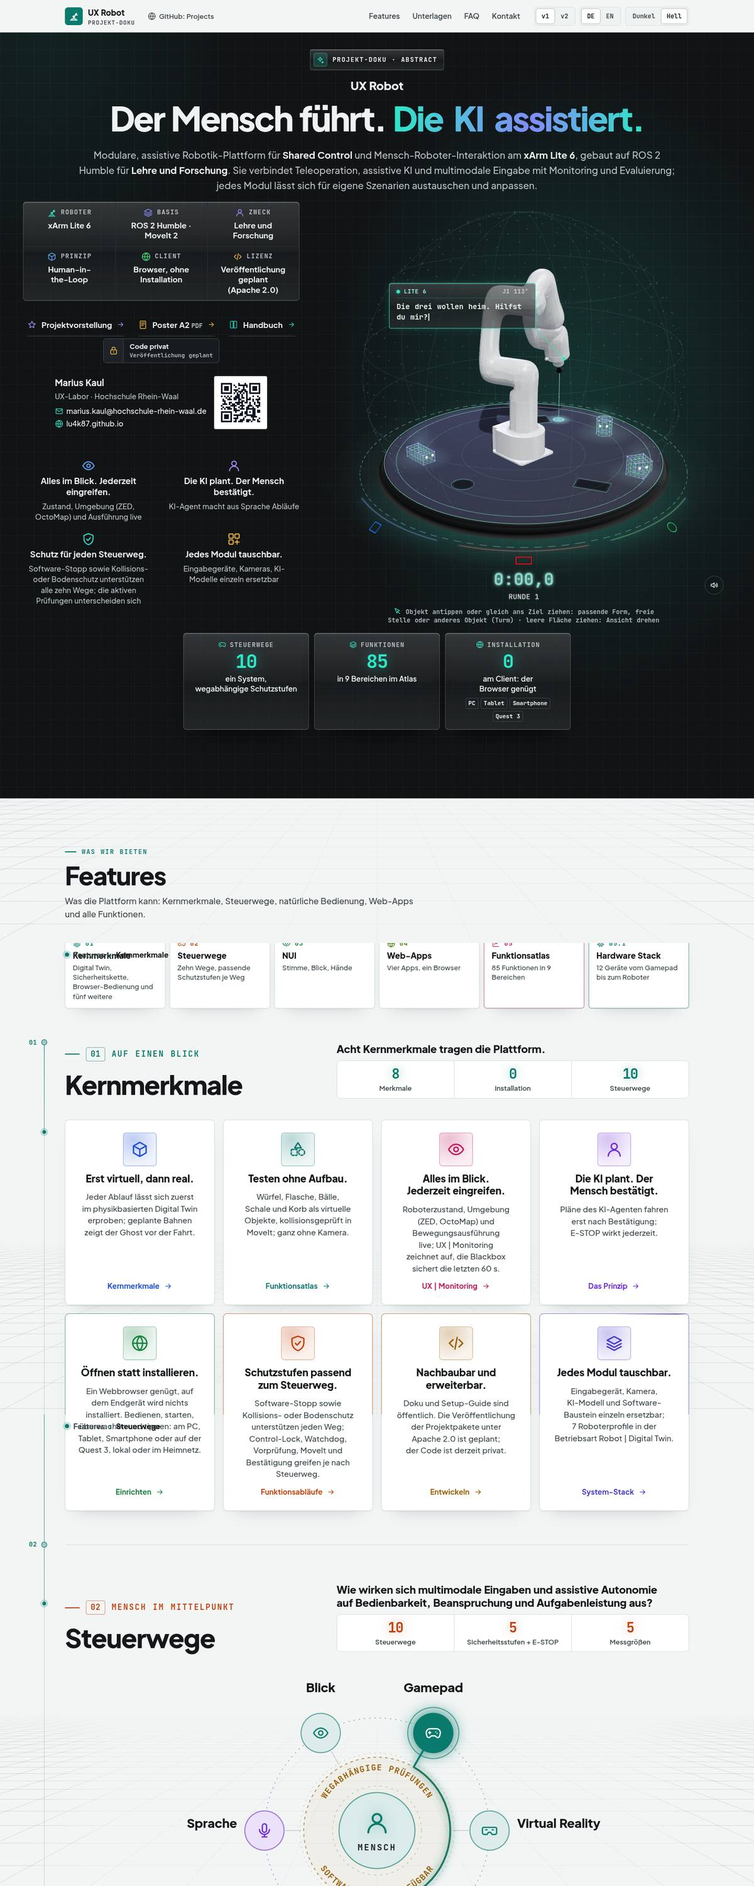
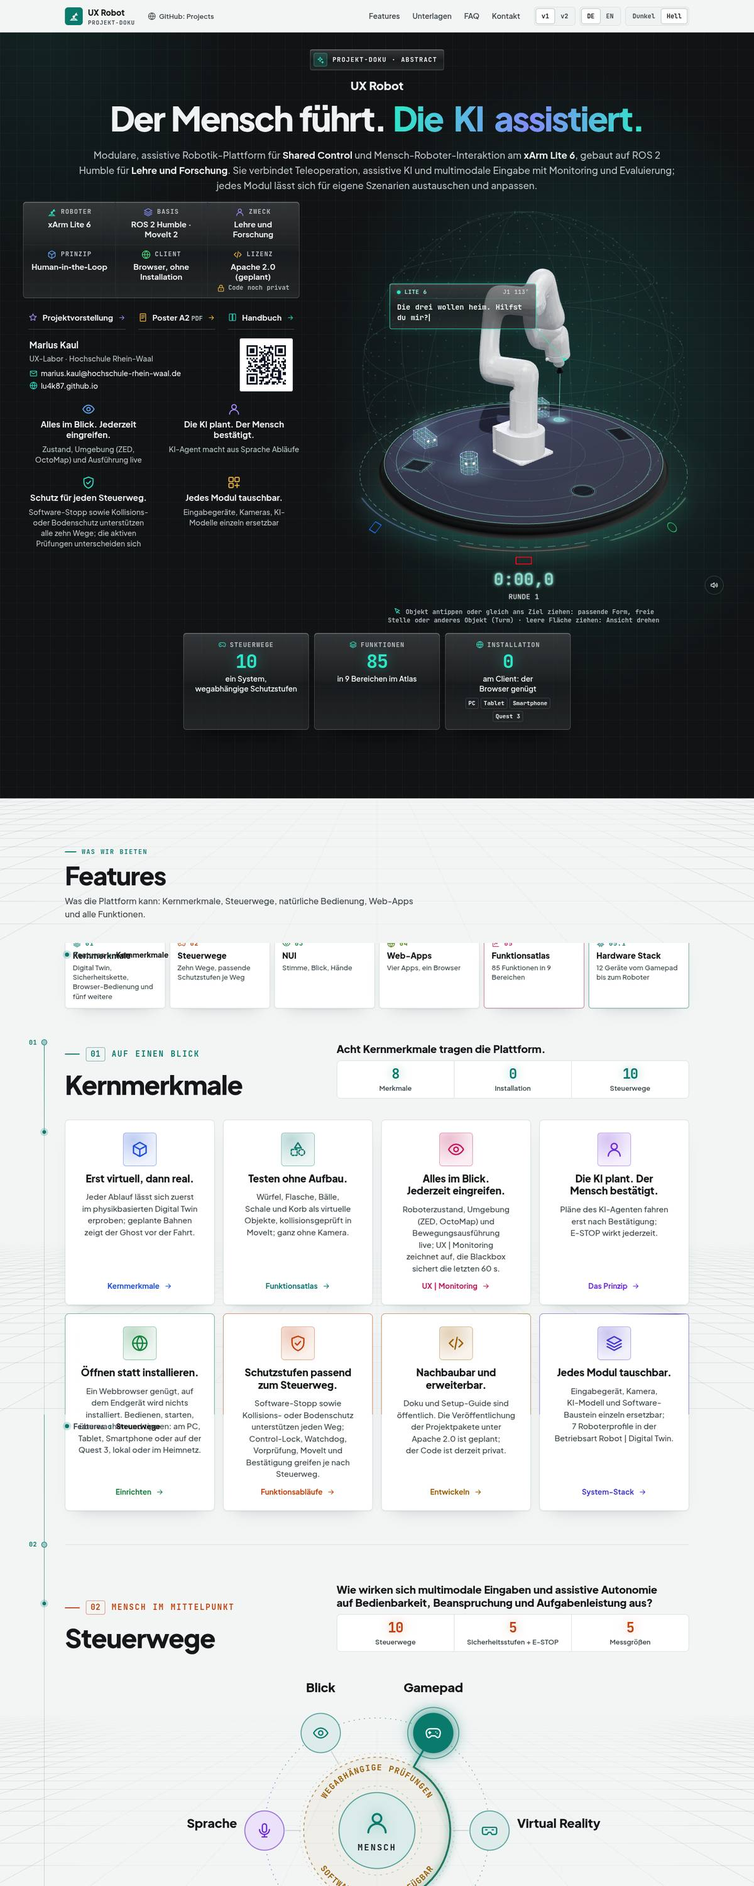
update project pages (dev_ws c979a1f2)

diff --git a/index.html b/index.html
@@ -868,7 +868,7 @@ footer p { margin: 0; }
     <p class="kicker"><b>01</b><span>UX Lab</span></p>
     <h2 id="h-lab" data-en="UX Lab · Rhine-Waal University of Applied Sciences">UX Lab · Hochschule Rhein-Waal</h2>
     <p class="intro" data-en="Robotics platform and research belong together: the study runs on UX Robot.">Robotik-Plattform und Forschung gehören zusammen: Die Studie läuft auf UX Robot.</p>
-    <div class="grid rows"><article class="card row" id="p-ux_robot" data-reveal><div class="info"><div class="plate"><a class="qr-code" href="web_ux_robot/project_docs.html" aria-label="QR-Code lu4k87.github.io/web_ux_robot" data-en-aria="QR code lu4k87.github.io/web_ux_robot"><svg viewBox="0 0 29 29" class="segno"><path class="qrline" stroke="#000" d="M0 0.5h7m1 0h3m1 0h1m1 0h1m1 0h5m1 0h7m-29 1h1m5 0h1m1 0h2m6 0h2m2 0h1m1 0h1m5 0h1m-29 1h1m1 0h3m1 0h1m2 0h1m1 0h1m1 0h1m1 0h1m2 0h1m1 0h1m1 0h1m1 0h3m1 0h1m-29 1h1m1 0h3m1 0h1m1 0h1m1 0h1m6 0h1m1 0h1m2 0h1m1 0h3m1 0h1m-29 1h1m1 0h3m1 0h1m2 0h1m4 0h3m2 0h2m1 0h1m1 0h3m1 0h1m-29 1h1m5 0h1m2 0h3m1 0h1m2 0h4m2 0h1m5 0h1m-29 1h7m1 0h1m1 0h1m1 0h1m1 0h1m1 0h1m1 0h1m1 0h1m1 0h7m-21 1h1m5 0h2m1 0h4m-21 1h1m1 0h2m1 0h3m1 0h3m1 0h1m2 0h2m1 0h1m2 0h1m2 0h1m1 0h2m-29 1h4m3 0h3m1 0h1m1 0h1m2 0h5m1 0h1m1 0h1m3 0h1m-27 1h7m2 0h1m1 0h1m2 0h1m1 0h1m3 0h1m1 0h1m1 0h2m-28 1h2m1 0h2m2 0h3m2 0h1m2 0h1m2 0h3m1 0h1m1 0h1m3 0h1m-29 1h3m3 0h1m1 0h1m1 0h3m1 0h1m2 0h1m2 0h2m3 0h2m-27 1h4m3 0h3m4 0h6m1 0h2m3 0h3m-29 1h1m5 0h1m2 0h1m2 0h2m2 0h4m1 0h2m3 0h3m-29 1h4m3 0h2m1 0h1m1 0h1m1 0h1m7 0h3m2 0h1m-28 1h2m4 0h1m2 0h3m2 0h1m1 0h1m1 0h3m3 0h2m1 0h1m-26 1h3m2 0h1m1 0h1m1 0h2m1 0h2m4 0h1m4 0h3m-28 1h1m1 0h7m4 0h4m5 0h3m1 0h1m-25 1h4m1 0h3m1 0h8m3 0h1m3 0h1m-26 1h3m2 0h1m2 0h2m2 0h3m1 0h10m-19 1h1m1 0h1m1 0h1m2 0h2m1 0h3m3 0h5m-29 1h7m1 0h2m4 0h1m4 0h2m1 0h1m1 0h2m1 0h1m-28 1h1m5 0h1m1 0h1m1 0h2m1 0h2m1 0h1m3 0h1m3 0h2m1 0h2m-29 1h1m1 0h3m1 0h1m4 0h1m4 0h1m3 0h5m1 0h1m-27 1h1m1 0h3m1 0h1m1 0h1m1 0h1m4 0h2m1 0h4m2 0h2m2 0h1m-29 1h1m1 0h3m1 0h1m1 0h5m1 0h1m2 0h4m2 0h1m2 0h1m1 0h1m-29 1h1m5 0h1m2 0h3m3 0h2m3 0h1m3 0h2m1 0h1m-28 1h7m1 0h3m3 0h1m1 0h1m1 0h5m1 0h1m2 0h1"/></svg></a><div class="qr-meta"><span class="host">lu4k87.github.io</span><a class="path" href="web_ux_robot/project_docs.html">/web_<wbr>ux_<wbr>robot</a><span class="scan"><svg class="i" aria-hidden="true"><use href="#i-qr"/></svg><span data-en="Scan to open">Zum Scannen</span></span><button class="qr-more" type="button" aria-expanded="false"><svg class="i" aria-hidden="true"><use href="#i-qr"/></svg><span class="qr-show" data-en="Show QR code">QR-Code zeigen</span><span class="qr-hide" data-en="Hide QR code">QR-Code ausblenden</span></button></div></div><div class="body"><p class="tag" data-en="Robotics · ROS 2 · xArm Lite 6">Robotik · ROS 2 · xArm Lite 6</p><h3>UX Robot</h3><p class="desc" data-en="Assistive robotics platform for the xArm Lite 6 – The human leads. The AI assists.">Assistive Robotik-Plattform für den xArm Lite 6 – Der Mensch führt. Die KI assistiert.</p></div><div class="acts"><div class="btns"><a class="btn main" href="web_ux_robot/project_docs.html"><span data-en="Read the docs">Doku lesen</span><svg class="i go" aria-hidden="true"><use href="#i-go"/></svg></a><a class="btn" href="web_ux_robot/project_docs.html"><span data-en="Open page">Seite öffnen</span><svg class="i go" aria-hidden="true"><use href="#i-go"/></svg></a></div><span class="repo-status" role="img" aria-label="Code privat" data-en-aria="Code private"><svg class="i" aria-hidden="true"><use href="#i-lock"/></svg><span data-en="Code private">Code privat</span></span></div></div><div class="shot"><a class="win" href="web_ux_robot/project_docs.html" aria-label="Seite öffnen: UX Robot · lu4k87.github.io/web_ux_robot" data-en-aria="Open page: UX Robot · lu4k87.github.io/web_ux_robot"><span class="win-bar"><i></i><i></i><i></i><span class="win-url">lu4k87.github.io/<wbr>web_<wbr>ux_<wbr>robot</span></span><span class="win-view tall" style="--r: 0.225; --d: 10.3s"><span class="win-pane"><img src="web_shots/ux_robot.jpg?v=d7049339" width="1200" height="3000" alt="" loading="lazy" decoding="async"></span><i class="win-pos" aria-hidden="true"><b></b></i></span></a></div></article><article class="card row" id="p-ux_robot_research" data-reveal><div class="info"><div class="plate"><a class="qr-code" href="web_ux_robot/present_research.html" aria-label="QR-Code lu4k87.github.io/web_ux_robot_research" data-en-aria="QR code lu4k87.github.io/web_ux_robot_research"><svg viewBox="0 0 33 33" class="segno"><path class="qrline" stroke="#000" d="M0 0.5h7m1 0h2m2 0h2m1 0h1m2 0h2m1 0h4m1 0h7m-33 1h1m5 0h1m2 0h4m4 0h2m2 0h2m1 0h1m1 0h1m5 0h1m-33 1h1m1 0h3m1 0h1m2 0h1m3 0h2m4 0h1m1 0h1m2 0h1m1 0h1m1 0h3m1 0h1m-33 1h1m1 0h3m1 0h1m3 0h4m1 0h3m3 0h3m2 0h1m1 0h3m1 0h1m-33 1h1m1 0h3m1 0h1m1 0h5m4 0h7m2 0h1m1 0h3m1 0h1m-33 1h1m5 0h1m1 0h1m3 0h4m1 0h1m4 0h1m3 0h1m5 0h1m-33 1h7m1 0h1m1 0h1m1 0h1m1 0h1m1 0h1m1 0h1m1 0h1m1 0h1m1 0h1m1 0h7m-23 1h1m2 0h1m1 0h2m1 0h2m1 0h3m-23 1h7m1 0h3m1 0h2m2 0h1m5 0h1m3 0h2m3 0h1m-33 1h2m1 0h2m3 0h5m3 0h5m2 0h2m1 0h2m1 0h4m-33 1h2m4 0h2m3 0h1m1 0h3m2 0h1m1 0h1m1 0h1m3 0h1m1 0h1m1 0h2m-31 1h2m4 0h2m1 0h1m1 0h1m1 0h3m1 0h1m1 0h5m3 0h5m-29 1h1m1 0h3m7 0h1m1 0h1m1 0h1m1 0h4m2 0h2m1 0h2m-25 1h1m2 0h2m3 0h1m1 0h3m1 0h2m1 0h1m3 0h4m-29 1h1m1 0h2m1 0h1m1 0h4m1 0h3m1 0h1m1 0h1m1 0h3m2 0h1m1 0h1m-31 1h1m2 0h1m3 0h2m1 0h2m1 0h1m1 0h1m4 0h1m1 0h4m2 0h2m-28 1h1m2 0h1m2 0h4m1 0h1m1 0h2m2 0h1m1 0h1m1 0h2m1 0h2m3 0h1m-33 1h1m6 0h1m1 0h2m1 0h2m3 0h1m1 0h3m1 0h1m2 0h2m1 0h2m1 0h1m-33 1h2m1 0h1m1 0h7m2 0h5m5 0h5m1 0h1m-29 1h1m1 0h1m2 0h1m3 0h1m3 0h4m2 0h1m3 0h8m-33 1h1m3 0h3m1 0h4m1 0h2m3 0h2m2 0h1m1 0h2m2 0h2m1 0h2m-33 1h1m2 0h3m1 0h3m4 0h3m1 0h4m1 0h1m1 0h2m2 0h2m1 0h1m-33 1h1m1 0h1m3 0h6m3 0h3m2 0h1m1 0h1m2 0h2m1 0h4m-32 1h1m2 0h3m1 0h2m4 0h2m3 0h1m1 0h4m4 0h3m1 0h1m-33 1h1m2 0h1m1 0h2m1 0h1m1 0h2m2 0h2m1 0h2m3 0h7m2 0h2m-25 1h6m4 0h4m1 0h2m3 0h1m1 0h1m1 0h1m-33 1h7m1 0h2m2 0h2m4 0h1m2 0h4m1 0h1m1 0h1m1 0h2m-32 1h1m5 0h1m1 0h3m1 0h1m2 0h1m2 0h1m1 0h3m1 0h1m3 0h4m-32 1h1m1 0h3m1 0h1m1 0h2m1 0h2m1 0h4m4 0h1m1 0h6m2 0h1m-33 1h1m1 0h3m1 0h1m1 0h2m1 0h1m2 0h7m1 0h4m2 0h1m1 0h1m1 0h1m-33 1h1m1 0h3m1 0h1m1 0h1m2 0h2m2 0h4m1 0h2m1 0h5m-28 1h1m5 0h1m1 0h2m1 0h3m1 0h5m1 0h2m5 0h3m-31 1h7m2 0h2m1 0h1m1 0h2m1 0h2m1 0h1m1 0h3m1 0h2m1 0h3"/></svg></a><div class="qr-meta"><span class="host">lu4k87.github.io</span><a class="path" href="web_ux_robot/present_research.html">/web_<wbr>ux_<wbr>robot_<wbr>research</a><span class="scan"><svg class="i" aria-hidden="true"><use href="#i-qr"/></svg><span data-en="Scan to open">Zum Scannen</span></span><button class="qr-more" type="button" aria-expanded="false"><svg class="i" aria-hidden="true"><use href="#i-qr"/></svg><span class="qr-show" data-en="Show QR code">QR-Code zeigen</span><span class="qr-hide" data-en="Hide QR code">QR-Code ausblenden</span></button></div></div><div class="body"><p class="tag" data-en="Research · human factors">Forschung · Human Factors</p><h3>Look, Speak, Confirm</h3><p class="desc" data-en="Study of gaze, speech and confirmation as complementary interaction for robot manipulation.">Studie zu Blick, Sprache und Bestätigung als sich ergänzende Bedienung für Roboter-Manipulation.</p></div><div class="acts"><div class="btns"><a class="btn main" href="web_ux_robot/present_research.html"><span data-en="Read the study">Studie lesen</span><svg class="i go" aria-hidden="true"><use href="#i-go"/></svg></a><a class="btn" href="web_ux_robot/present_research.html"><span data-en="Open page">Seite öffnen</span><svg class="i go" aria-hidden="true"><use href="#i-go"/></svg></a></div><span class="repo-status" role="img" aria-label="Code privat" data-en-aria="Code private"><svg class="i" aria-hidden="true"><use href="#i-lock"/></svg><span data-en="Code private">Code privat</span></span></div></div><div class="shot"><a class="win" href="web_ux_robot/present_research.html" aria-label="Seite öffnen: Look, Speak, Confirm · lu4k87.github.io/web_ux_robot_research" data-en-aria="Open page: Look, Speak, Confirm · lu4k87.github.io/web_ux_robot_research"><span class="win-bar"><i></i><i></i><i></i><span class="win-url">lu4k87.github.io/<wbr>web_<wbr>ux_<wbr>robot_<wbr>research</span></span><span class="win-view tall" style="--r: 0.225; --d: 10.3s"><span class="win-pane"><img src="web_shots/ux_robot_research.jpg?v=d7049339" width="1200" height="3000" alt="" loading="lazy" decoding="async"></span><i class="win-pos" aria-hidden="true"><b></b></i></span></a></div></article></div>
+    <div class="grid rows"><article class="card row" id="p-ux_robot" data-reveal><div class="info"><div class="plate"><a class="qr-code" href="web_ux_robot/project_docs.html" aria-label="QR-Code lu4k87.github.io/web_ux_robot" data-en-aria="QR code lu4k87.github.io/web_ux_robot"><svg viewBox="0 0 29 29" class="segno"><path class="qrline" stroke="#000" d="M0 0.5h7m1 0h3m1 0h1m1 0h1m1 0h5m1 0h7m-29 1h1m5 0h1m1 0h2m6 0h2m2 0h1m1 0h1m5 0h1m-29 1h1m1 0h3m1 0h1m2 0h1m1 0h1m1 0h1m1 0h1m2 0h1m1 0h1m1 0h1m1 0h3m1 0h1m-29 1h1m1 0h3m1 0h1m1 0h1m1 0h1m6 0h1m1 0h1m2 0h1m1 0h3m1 0h1m-29 1h1m1 0h3m1 0h1m2 0h1m4 0h3m2 0h2m1 0h1m1 0h3m1 0h1m-29 1h1m5 0h1m2 0h3m1 0h1m2 0h4m2 0h1m5 0h1m-29 1h7m1 0h1m1 0h1m1 0h1m1 0h1m1 0h1m1 0h1m1 0h1m1 0h7m-21 1h1m5 0h2m1 0h4m-21 1h1m1 0h2m1 0h3m1 0h3m1 0h1m2 0h2m1 0h1m2 0h1m2 0h1m1 0h2m-29 1h4m3 0h3m1 0h1m1 0h1m2 0h5m1 0h1m1 0h1m3 0h1m-27 1h7m2 0h1m1 0h1m2 0h1m1 0h1m3 0h1m1 0h1m1 0h2m-28 1h2m1 0h2m2 0h3m2 0h1m2 0h1m2 0h3m1 0h1m1 0h1m3 0h1m-29 1h3m3 0h1m1 0h1m1 0h3m1 0h1m2 0h1m2 0h2m3 0h2m-27 1h4m3 0h3m4 0h6m1 0h2m3 0h3m-29 1h1m5 0h1m2 0h1m2 0h2m2 0h4m1 0h2m3 0h3m-29 1h4m3 0h2m1 0h1m1 0h1m1 0h1m7 0h3m2 0h1m-28 1h2m4 0h1m2 0h3m2 0h1m1 0h1m1 0h3m3 0h2m1 0h1m-26 1h3m2 0h1m1 0h1m1 0h2m1 0h2m4 0h1m4 0h3m-28 1h1m1 0h7m4 0h4m5 0h3m1 0h1m-25 1h4m1 0h3m1 0h8m3 0h1m3 0h1m-26 1h3m2 0h1m2 0h2m2 0h3m1 0h10m-19 1h1m1 0h1m1 0h1m2 0h2m1 0h3m3 0h5m-29 1h7m1 0h2m4 0h1m4 0h2m1 0h1m1 0h2m1 0h1m-28 1h1m5 0h1m1 0h1m1 0h2m1 0h2m1 0h1m3 0h1m3 0h2m1 0h2m-29 1h1m1 0h3m1 0h1m4 0h1m4 0h1m3 0h5m1 0h1m-27 1h1m1 0h3m1 0h1m1 0h1m1 0h1m4 0h2m1 0h4m2 0h2m2 0h1m-29 1h1m1 0h3m1 0h1m1 0h5m1 0h1m2 0h4m2 0h1m2 0h1m1 0h1m-29 1h1m5 0h1m2 0h3m3 0h2m3 0h1m3 0h2m1 0h1m-28 1h7m1 0h3m3 0h1m1 0h1m1 0h5m1 0h1m2 0h1"/></svg></a><div class="qr-meta"><span class="host">lu4k87.github.io</span><a class="path" href="web_ux_robot/project_docs.html">/web_<wbr>ux_<wbr>robot</a><span class="scan"><svg class="i" aria-hidden="true"><use href="#i-qr"/></svg><span data-en="Scan to open">Zum Scannen</span></span><button class="qr-more" type="button" aria-expanded="false"><svg class="i" aria-hidden="true"><use href="#i-qr"/></svg><span class="qr-show" data-en="Show QR code">QR-Code zeigen</span><span class="qr-hide" data-en="Hide QR code">QR-Code ausblenden</span></button></div></div><div class="body"><p class="tag" data-en="Robotics · ROS 2 · xArm Lite 6">Robotik · ROS 2 · xArm Lite 6</p><h3>UX Robot</h3><p class="desc" data-en="Assistive robotics platform for the xArm Lite 6 – The human leads. The AI assists.">Assistive Robotik-Plattform für den xArm Lite 6 – Der Mensch führt. Die KI assistiert.</p></div><div class="acts"><div class="btns"><a class="btn main" href="web_ux_robot/project_docs.html"><span data-en="Read the docs">Doku lesen</span><svg class="i go" aria-hidden="true"><use href="#i-go"/></svg></a><a class="btn" href="web_ux_robot/project_docs.html"><span data-en="Open page">Seite öffnen</span><svg class="i go" aria-hidden="true"><use href="#i-go"/></svg></a></div><span class="repo-status" role="img" aria-label="Code privat" data-en-aria="Code private"><svg class="i" aria-hidden="true"><use href="#i-lock"/></svg><span data-en="Code private">Code privat</span></span></div></div><div class="shot"><a class="win" href="web_ux_robot/project_docs.html" aria-label="Seite öffnen: UX Robot · lu4k87.github.io/web_ux_robot" data-en-aria="Open page: UX Robot · lu4k87.github.io/web_ux_robot"><span class="win-bar"><i></i><i></i><i></i><span class="win-url">lu4k87.github.io/<wbr>web_<wbr>ux_<wbr>robot</span></span><span class="win-view tall" style="--r: 0.225; --d: 10.3s"><span class="win-pane"><img src="web_shots/ux_robot.jpg?v=050289eb" width="1200" height="3000" alt="" loading="lazy" decoding="async"></span><i class="win-pos" aria-hidden="true"><b></b></i></span></a></div></article><article class="card row" id="p-ux_robot_research" data-reveal><div class="info"><div class="plate"><a class="qr-code" href="web_ux_robot/present_research.html" aria-label="QR-Code lu4k87.github.io/web_ux_robot_research" data-en-aria="QR code lu4k87.github.io/web_ux_robot_research"><svg viewBox="0 0 33 33" class="segno"><path class="qrline" stroke="#000" d="M0 0.5h7m1 0h2m2 0h2m1 0h1m2 0h2m1 0h4m1 0h7m-33 1h1m5 0h1m2 0h4m4 0h2m2 0h2m1 0h1m1 0h1m5 0h1m-33 1h1m1 0h3m1 0h1m2 0h1m3 0h2m4 0h1m1 0h1m2 0h1m1 0h1m1 0h3m1 0h1m-33 1h1m1 0h3m1 0h1m3 0h4m1 0h3m3 0h3m2 0h1m1 0h3m1 0h1m-33 1h1m1 0h3m1 0h1m1 0h5m4 0h7m2 0h1m1 0h3m1 0h1m-33 1h1m5 0h1m1 0h1m3 0h4m1 0h1m4 0h1m3 0h1m5 0h1m-33 1h7m1 0h1m1 0h1m1 0h1m1 0h1m1 0h1m1 0h1m1 0h1m1 0h1m1 0h1m1 0h7m-23 1h1m2 0h1m1 0h2m1 0h2m1 0h3m-23 1h7m1 0h3m1 0h2m2 0h1m5 0h1m3 0h2m3 0h1m-33 1h2m1 0h2m3 0h5m3 0h5m2 0h2m1 0h2m1 0h4m-33 1h2m4 0h2m3 0h1m1 0h3m2 0h1m1 0h1m1 0h1m3 0h1m1 0h1m1 0h2m-31 1h2m4 0h2m1 0h1m1 0h1m1 0h3m1 0h1m1 0h5m3 0h5m-29 1h1m1 0h3m7 0h1m1 0h1m1 0h1m1 0h4m2 0h2m1 0h2m-25 1h1m2 0h2m3 0h1m1 0h3m1 0h2m1 0h1m3 0h4m-29 1h1m1 0h2m1 0h1m1 0h4m1 0h3m1 0h1m1 0h1m1 0h3m2 0h1m1 0h1m-31 1h1m2 0h1m3 0h2m1 0h2m1 0h1m1 0h1m4 0h1m1 0h4m2 0h2m-28 1h1m2 0h1m2 0h4m1 0h1m1 0h2m2 0h1m1 0h1m1 0h2m1 0h2m3 0h1m-33 1h1m6 0h1m1 0h2m1 0h2m3 0h1m1 0h3m1 0h1m2 0h2m1 0h2m1 0h1m-33 1h2m1 0h1m1 0h7m2 0h5m5 0h5m1 0h1m-29 1h1m1 0h1m2 0h1m3 0h1m3 0h4m2 0h1m3 0h8m-33 1h1m3 0h3m1 0h4m1 0h2m3 0h2m2 0h1m1 0h2m2 0h2m1 0h2m-33 1h1m2 0h3m1 0h3m4 0h3m1 0h4m1 0h1m1 0h2m2 0h2m1 0h1m-33 1h1m1 0h1m3 0h6m3 0h3m2 0h1m1 0h1m2 0h2m1 0h4m-32 1h1m2 0h3m1 0h2m4 0h2m3 0h1m1 0h4m4 0h3m1 0h1m-33 1h1m2 0h1m1 0h2m1 0h1m1 0h2m2 0h2m1 0h2m3 0h7m2 0h2m-25 1h6m4 0h4m1 0h2m3 0h1m1 0h1m1 0h1m-33 1h7m1 0h2m2 0h2m4 0h1m2 0h4m1 0h1m1 0h1m1 0h2m-32 1h1m5 0h1m1 0h3m1 0h1m2 0h1m2 0h1m1 0h3m1 0h1m3 0h4m-32 1h1m1 0h3m1 0h1m1 0h2m1 0h2m1 0h4m4 0h1m1 0h6m2 0h1m-33 1h1m1 0h3m1 0h1m1 0h2m1 0h1m2 0h7m1 0h4m2 0h1m1 0h1m1 0h1m-33 1h1m1 0h3m1 0h1m1 0h1m2 0h2m2 0h4m1 0h2m1 0h5m-28 1h1m5 0h1m1 0h2m1 0h3m1 0h5m1 0h2m5 0h3m-31 1h7m2 0h2m1 0h1m1 0h2m1 0h2m1 0h1m1 0h3m1 0h2m1 0h3"/></svg></a><div class="qr-meta"><span class="host">lu4k87.github.io</span><a class="path" href="web_ux_robot/present_research.html">/web_<wbr>ux_<wbr>robot_<wbr>research</a><span class="scan"><svg class="i" aria-hidden="true"><use href="#i-qr"/></svg><span data-en="Scan to open">Zum Scannen</span></span><button class="qr-more" type="button" aria-expanded="false"><svg class="i" aria-hidden="true"><use href="#i-qr"/></svg><span class="qr-show" data-en="Show QR code">QR-Code zeigen</span><span class="qr-hide" data-en="Hide QR code">QR-Code ausblenden</span></button></div></div><div class="body"><p class="tag" data-en="Research · human factors">Forschung · Human Factors</p><h3>Look, Speak, Confirm</h3><p class="desc" data-en="Study of gaze, speech and confirmation as complementary interaction for robot manipulation.">Studie zu Blick, Sprache und Bestätigung als sich ergänzende Bedienung für Roboter-Manipulation.</p></div><div class="acts"><div class="btns"><a class="btn main" href="web_ux_robot/present_research.html"><span data-en="Read the study">Studie lesen</span><svg class="i go" aria-hidden="true"><use href="#i-go"/></svg></a><a class="btn" href="web_ux_robot/present_research.html"><span data-en="Open page">Seite öffnen</span><svg class="i go" aria-hidden="true"><use href="#i-go"/></svg></a></div><span class="repo-status" role="img" aria-label="Code privat" data-en-aria="Code private"><svg class="i" aria-hidden="true"><use href="#i-lock"/></svg><span data-en="Code private">Code privat</span></span></div></div><div class="shot"><a class="win" href="web_ux_robot/present_research.html" aria-label="Seite öffnen: Look, Speak, Confirm · lu4k87.github.io/web_ux_robot_research" data-en-aria="Open page: Look, Speak, Confirm · lu4k87.github.io/web_ux_robot_research"><span class="win-bar"><i></i><i></i><i></i><span class="win-url">lu4k87.github.io/<wbr>web_<wbr>ux_<wbr>robot_<wbr>research</span></span><span class="win-view tall" style="--r: 0.225; --d: 10.3s"><span class="win-pane"><img src="web_shots/ux_robot_research.jpg?v=050289eb" width="1200" height="3000" alt="" loading="lazy" decoding="async"></span><i class="win-pos" aria-hidden="true"><b></b></i></span></a></div></article></div>
   </section>
 
   <section aria-labelledby="h-projects">

diff --git a/web_ux_robot/project_docs.html b/web_ux_robot/project_docs.html
@@ -156,14 +156,16 @@ a.kpi:hover { background: var(--surface-2); }
 /* Hero: Steckbrief 3×2, Linkzeile ins Projekt, Autorzeile mit kleinem QR (Wunsch User 05.10.2026, Vorschau B); Icons in Bereichsfarbe (--hue) */
 .facts { display: grid; grid-template-columns: repeat(3, minmax(0, 1fr)); width: 100%; max-width: 620px; margin: 0; overflow: hidden;
   border: 1px solid var(--glass-bd); border-radius: var(--radius); background: var(--glass-bg); box-shadow: inset 0 1px 0 var(--glass-hi); }
-.facts > div { min-width: 0; padding: 11px 14px; text-align: center; box-shadow: 1px 0 0 var(--line), 0 1px 0 var(--line); }
+.facts > div { min-width: 0; padding: 10px 12px; text-align: center; box-shadow: 1px 0 0 var(--line), 0 1px 0 var(--line); }
 .facts dt { display: flex; align-items: center; justify-content: center; gap: 8px; font: 700 12px/1.2 var(--mono); letter-spacing: .1em; text-transform: uppercase; color: var(--fg-2); }
 .facts dt .ico { width: 18px; height: 18px; flex: none; color: var(--hue); }
-.facts dd { margin: 5px 0 0; font-size: 15px; font-weight: 700; line-height: 1.3; text-wrap: balance; }
-.hero-copy { justify-items: center; }  /* Steckbrief, Links, Autor mittig (Wunsch User 06.10.2026) */
+.facts dd { margin: 4px 0 0; font-size: 15px; font-weight: 700; line-height: 1.3; text-wrap: balance; }
+.facts dd small { display: flex; align-items: center; justify-content: center; gap: 6px; margin-top: 4px; font: 600 12px/1.3 var(--mono); color: var(--fg-2); }  /* Status „Code privat“ in der Lizenz-Kachel statt eigenem Kasten (Wunsch User 25.10.2026) */
+.facts dd small .ico { width: 16px; height: 16px; flex: none; color: var(--hue); }
+.hero-copy { justify-items: center; gap: 16px; }  /* Steckbrief, Links, Autor mittig (Wunsch User 06.10.2026), enger (25.10.2026) */
 :where(body *) { word-spacing: .06em; }  /* alle Texte minimal luftiger; :where() = je Element relativ zur eigenen Schriftgröße (Wunsch User 06.10.2026) */
 .hero-head .h1-claim em { word-spacing: .18em; }  /* mehr Luft um „KI“ trotz letter-spacing -.045em (Wunsch User 06.10.2026) */
-.hero-links { display: flex; flex-wrap: wrap; justify-content: center; gap: 4px 26px; }
+.hero-links { display: flex; flex-wrap: wrap; justify-content: center; gap: 4px 24px; }
 .hero-links a { display: inline-flex; align-items: center; gap: 9px; min-height: 44px; font-size: 15px; font-weight: 700; border-bottom: 1px solid var(--line-strong);
   transition: border-color var(--t-fast), color var(--t-fast); }
 .hero-links a .ico { width: 18px; height: 18px; color: var(--hue); }
@@ -171,13 +173,7 @@ a.kpi:hover { background: var(--surface-2); }
 .hero-links small { font: 700 12px/1 var(--mono); color: var(--fg-2); }
 .hero-links a:hover, .hero-links a:focus-visible { border-color: var(--hue); }
 .hero-links a:hover .go { transform: translateX(3px); }
-.repo-status { display: inline-grid; grid-template-columns: 38px minmax(0, auto); align-items: stretch; overflow: hidden; border: 1px solid var(--line-strong); border-radius: var(--radius); background: var(--surface); color: var(--fg); line-height: 1.2; }
-.repo-status .status-icon { display: grid; place-items: center; min-height: 42px; background: var(--surface-2); border-right: 1px solid var(--line-strong); }
-.repo-status .status-icon .ico { width: 18px; height: 18px; color: var(--gold); }
-.repo-status .status-copy { display: flex; flex-direction: column; justify-content: center; gap: 2px; padding: 7px 11px; text-align: left; }
-.repo-status .status-copy b { font-size: 13px; font-weight: 700; }
-.repo-status .status-copy small { font: 600 11px/1.2 var(--mono); color: var(--fg-2); }
-.author { display: flex; align-items: center; gap: 14px; }
+.author { display: flex; align-items: center; justify-content: space-between; gap: 16px; width: 100%; max-width: 620px; padding-inline: 12px; }  /* bündig mit dem Steckbrief (Wunsch User 25.10.2026) */
 .author > div { display: grid; gap: 3px; font-size: 14px; color: var(--fg-2); }
 .author b { font-size: 17px; color: var(--fg); }
 .au-links { display: grid; gap: 2px; margin-top: 3px; }
@@ -630,7 +626,7 @@ footer .wrap { display: flex; justify-content: space-between; align-items: cente
    Spalten, darunter links Steckbrief, Links, Autor und Kernmerkmale (2 × 2), rechts die Bühne → Roboter im ersten Bildschirm.
    .hero-head löst sich dafür ins Raster auf (display: contents, nur breit; schmal bleibt die Reihenfolge des HTML) */
 @media (min-width: 961px) {
-  .hero-inner { grid-template-columns: minmax(0, .84fr) minmax(0, 1.26fr); column-gap: 32px; align-items: start; row-gap: 16px; padding-top: 32px; }
+  .hero-inner { grid-template-columns: minmax(0, .84fr) minmax(0, 1.26fr); grid-template-rows: repeat(4, auto) 1fr; column-gap: 32px; align-items: start; row-gap: 16px; padding-top: 32px; }  /* 1fr: Höhe der Bühne geht an Zeile 5, Kernmerkmale direkt unter dem Autor (25.10.2026) */
   .hero-head { display: contents; }
   .hero-head > .badge { grid-column: 1 / -1; grid-row: 1; justify-self: center; }
   .hero-head > h1 { grid-column: 1 / -1; grid-row: 2; justify-self: center; }
@@ -1058,15 +1054,14 @@ footer .wrap { display: flex; justify-content: space-between; align-items: cente
           <div style="--hue: var(--accent)"><dt><svg class="ico" aria-hidden="true"><use href="#i-arm"/></svg><span data-en="Robot">Roboter</span></dt><dd>xArm Lite 6</dd></div>
           <div style="--hue: var(--indigo)"><dt><svg class="ico" aria-hidden="true"><use href="#i-layers"/></svg><span data-en="Base">Basis</span></dt><dd>ROS 2 Humble&nbsp;· MoveIt 2</dd></div>
           <div style="--hue: var(--violet)"><dt><svg class="ico" aria-hidden="true"><use href="#i-user"/></svg><span data-en="Purpose">Zweck</span></dt><dd data-en="Teaching and research">Lehre und Forschung</dd></div>
-          <div style="--hue: var(--blue)"><dt><svg class="ico" aria-hidden="true"><use href="#i-cube"/></svg><span data-en="Principle">Prinzip</span></dt><dd>Human-in-the-Loop</dd></div>
+          <div style="--hue: var(--blue)"><dt><svg class="ico" aria-hidden="true"><use href="#i-cube"/></svg><span data-en="Principle">Prinzip</span></dt><dd>Human&#8209;in&#8209;the&#8209;Loop</dd></div>
           <div style="--hue: var(--green)"><dt><svg class="ico" aria-hidden="true"><use href="#i-globe"/></svg><span>Client</span></dt><dd data-en="Browser, nothing to install">Browser, ohne Installation</dd></div>
-          <div style="--hue: var(--gold)"><dt><svg class="ico" aria-hidden="true"><use href="#i-code"/></svg><span data-en="License">Lizenz</span></dt><dd data-en="Publication planned (Apache 2.0)">Veröffentlichung geplant (Apache 2.0)</dd></div>
+          <div style="--hue: var(--gold)"><dt><svg class="ico" aria-hidden="true"><use href="#i-code"/></svg><span data-en="License">Lizenz</span></dt><dd><span data-en="Apache 2.0 (planned)">Apache 2.0 (geplant)</span><small><svg class="ico" aria-hidden="true"><use href="#i-lock"/></svg><span data-en="Code still private">Code noch privat</span></small></dd></div>
         </dl>
         <nav class="hero-links" aria-label="Direkt ins Projekt" data-en-aria="Straight into the project">
           <a href="present_presentation.html" target="_blank" rel="noopener" style="--hue: var(--violet)"><svg class="ico" aria-hidden="true"><use href="#i-star"/></svg><span data-en="Project presentation">Projektvorstellung</span><svg class="ico go" aria-hidden="true"><use href="#i-go"/></svg></a>
           <a href="poster/poster_a2.pdf" target="_blank" rel="noopener" style="--hue: var(--gold)"><svg class="ico" aria-hidden="true"><use href="#i-poster"/></svg><span>Poster A2 <small>PDF</small></span><svg class="ico go" aria-hidden="true"><use href="#i-go"/></svg></a>
           <a href="operate_manual.html" data-nexus-href="operate_manual.html" target="_blank" rel="noopener" style="--hue: var(--teal)"><svg class="ico" aria-hidden="true"><use href="#i-book"/></svg><span data-en="Manual">Handbuch</span><svg class="ico go" aria-hidden="true"><use href="#i-go"/></svg></a>
-          <span class="repo-status" role="img" aria-label="Code privat; Veröffentlichung geplant" data-en-aria="Code private; publication planned"><span class="status-icon" aria-hidden="true"><svg class="ico"><use href="#i-lock"/></svg></span><span class="status-copy"><b data-en="Code private">Code privat</b><small data-en="Publication planned">Veröffentlichung geplant</small></span></span>
         </nav>
         <div class="author" role="group" aria-label="Autor: Marius Kaul" data-en-aria="Author: Marius Kaul">
           <div>
